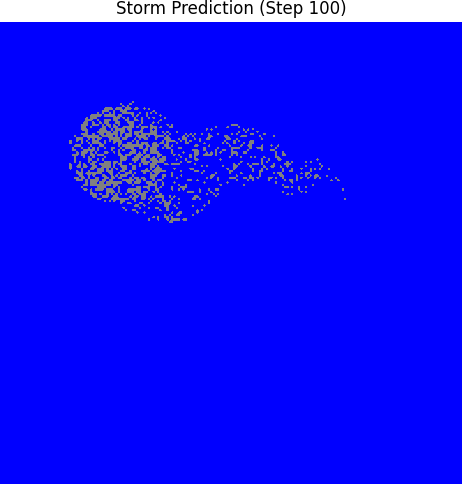
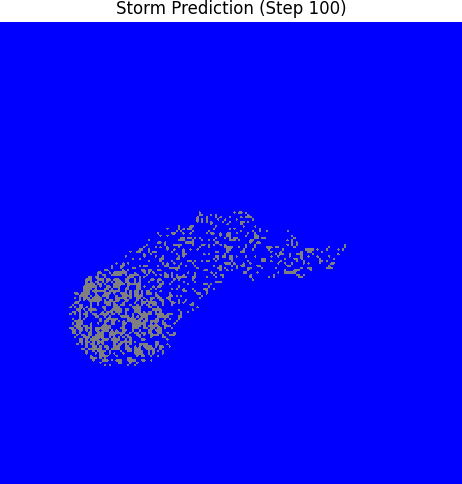
process actual storm track image to grid

Changed region(s): [[0.1515, 0.2169, 0.7273, 0.7748], [0.7273, 0.4959, 0.7576, 0.5269]]

diff --git a/mod_actual_storm.py b/mod_actual_storm.py
@@ -1,0 +1,39 @@
+import cv2
+import numpy as np
+import matplotlib.pyplot as plt
+
+# Load the original image
+image_path = 'storm_track.png'
+original_img = cv2.imread(image_path)
+
+# Convert to HSV color space for color-based segmentation
+hsv_img = cv2.cvtColor(original_img, cv2.COLOR_BGR2HSV)
+
+# Define color range to isolate the storm track (adjust these values if needed)
+lower_color = np.array([0, 0, 120])    # Lower HSV bound for storm path color
+upper_color = np.array([180, 50, 255]) # Upper HSV bound for storm path color
+
+# Create a mask to isolate the storm track
+mask = cv2.inRange(hsv_img, lower_color, upper_color)
+
+# Remove small noise by applying morphological operations
+kernel = np.ones((5, 5), np.uint8)  # Increased kernel size for stronger noise removal
+mask = cv2.morphologyEx(mask, cv2.MORPH_CLOSE, kernel)  # Close small holes inside the storm track
+mask = cv2.morphologyEx(mask, cv2.MORPH_OPEN, kernel)   # Remove small objects from the mask
+
+# Resize to a 200x200 grid
+resized_mask = cv2.resize(mask, (200, 200), interpolation=cv2.INTER_NEAREST)
+
+# Create a blue background for the entire 200x200 grid
+blue_background = np.full((200, 200, 3), (0, 0, 255), dtype=np.uint8)  # RGB for blue background
+
+# Overlay the gray storm track onto the blue background
+# Set the storm track areas (where mask is 255) to gray
+result_img = np.where(resized_mask[..., None] == 255, (128, 128, 128), blue_background)
+
+# Plot the final result
+plt.figure(figsize=(6, 6))
+plt.imshow(result_img)
+plt.title('Processed Actual Storm Track')
+plt.axis('off')
+plt.show()
